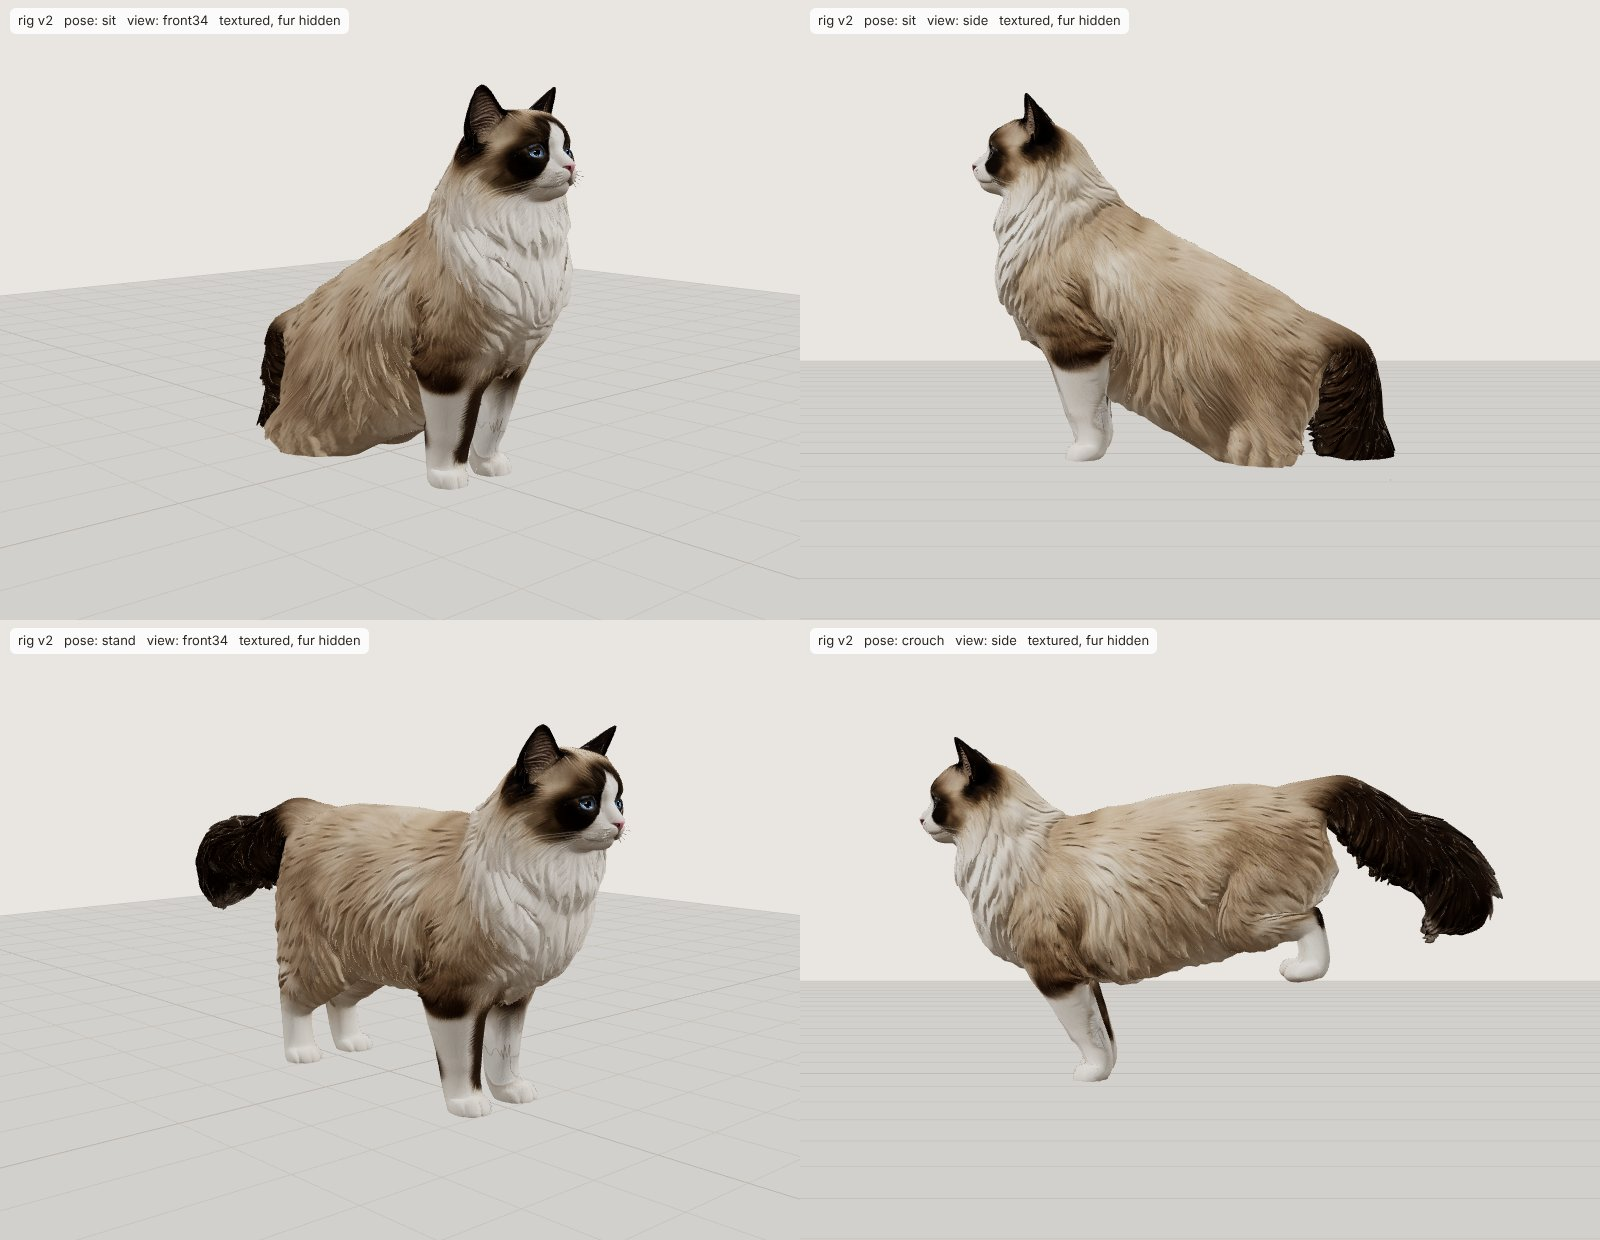
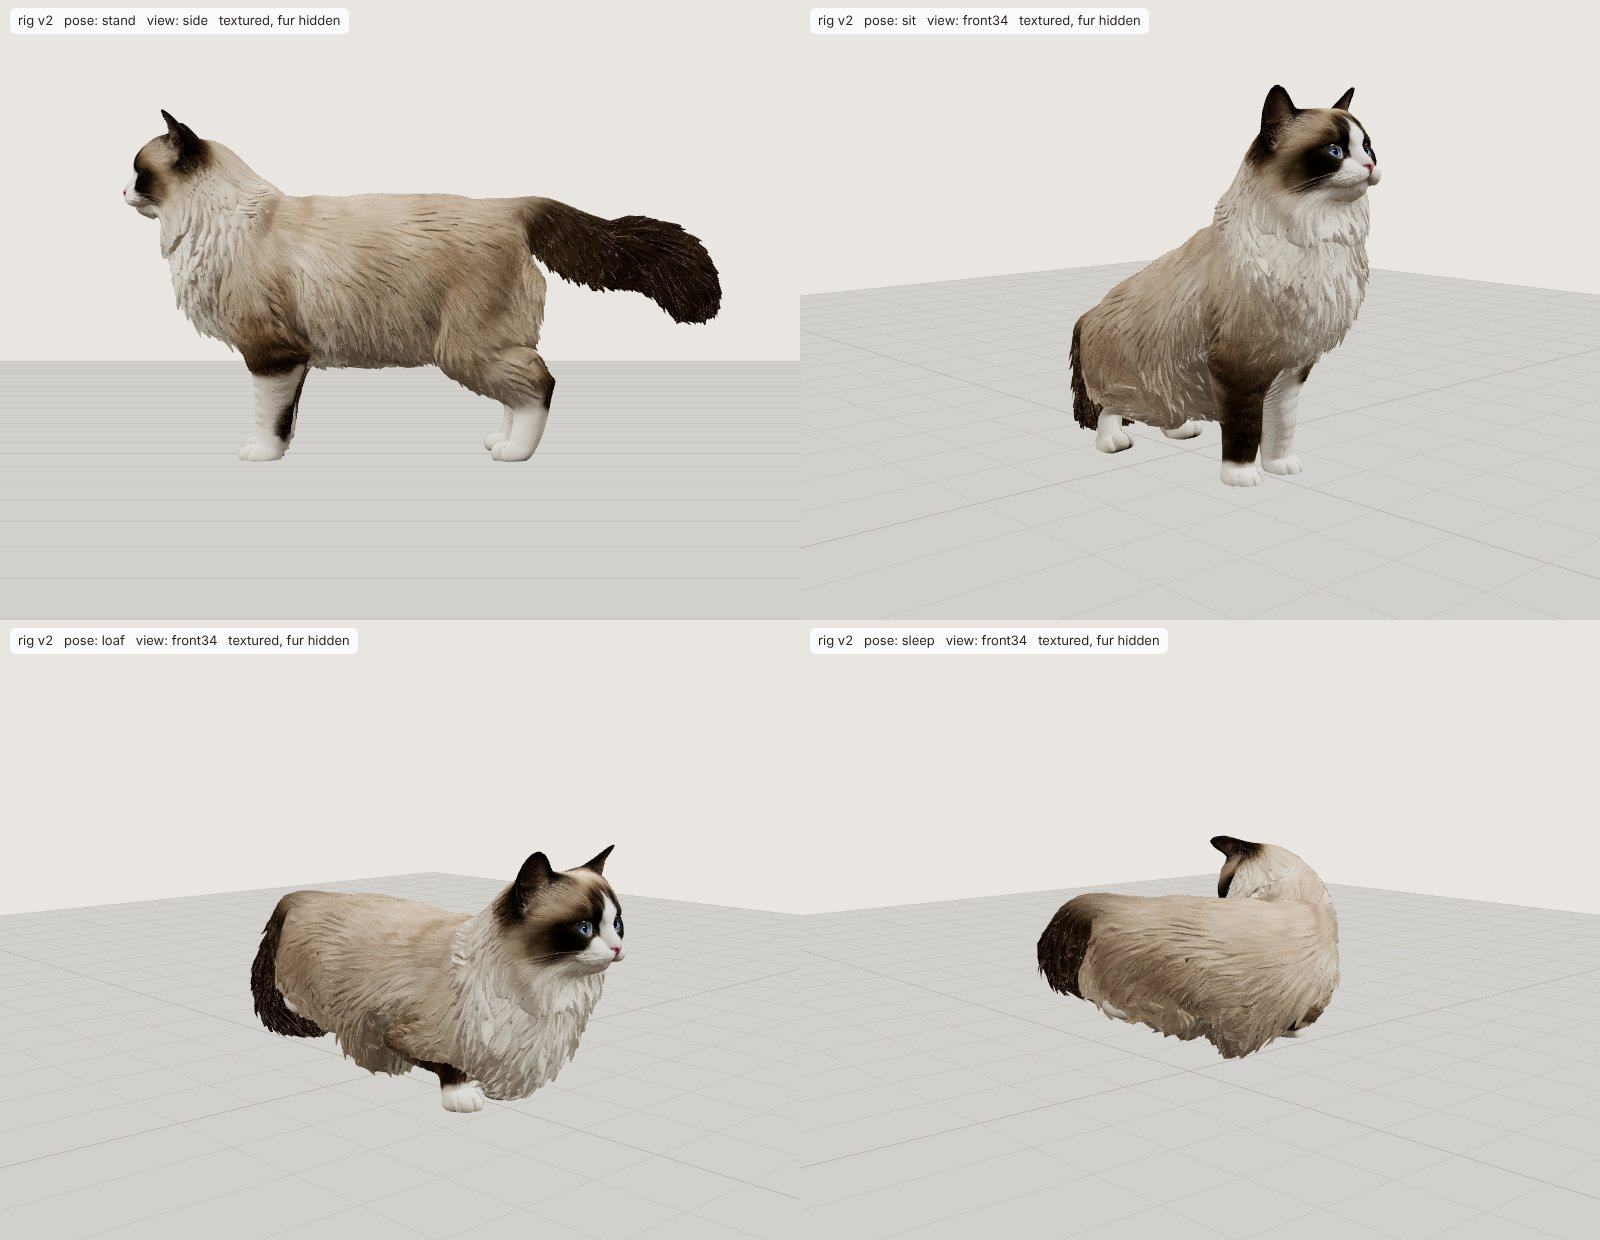
Top-settings long-haired Mochi takes the skeleton: stands, sits, loafs, sleeps; loose tail fur follows the tail
Claude-Session: https://claude.ai/code/session_01URjRU4Zd6JqdoEyWUnXXSA

diff --git a/dist/cat-rig.js b/dist/cat-rig.js
@@ -237,47 +237,48 @@ BONES2.tail5 = ['tail4', V(0.515, -0.38, -0.60)];
 BONES2.tail6 = ['tail5', V(0.505, -0.372, -0.72)];
 BONES2.tail7 = ['tail6', V(0.48, -0.365, -0.82), V(0.43, -0.34, -0.95)];
 
-// The long-haired Mochi candidate (assets/mochi-longhair.glb, see
+// The long-haired Mochi (assets/mochi-longhair-hq.glb, Meshy's top settings; see
 // docs/mochi-longhair/): the same bones as BONES2, measured on that model. It
-// stands straight and symmetric: midline x = 0, ground y = -0.62, facing +z,
+// stands almost square: midline x = 0, ground y = -0.6, facing +z,
 // her left is +x, tail raised. Thick fur: the skin is well inside the surface
 // (back at y .25, bones at .08). Not used by the app yet (mochi-study.html
 // draws it with ?bones).
 const side = (n, parent, x, y, z, end) => ({[n + 'R']: [parent && parent + 'R', V(-x, y, z), end && V(-end[0], end[1], end[2])].filter(v => v !== undefined), [n + 'L']: [parent && parent + 'L', V(x, y, z), end && V(...end)].filter(v => v !== undefined)});
-export const GROUND_Y_LONGHAIR = -0.62;
+export const GROUND_Y_LONGHAIR = -0.602;
 export const BONES_LONGHAIR = {
   hips:  [null,    V(0, 0.08, -0.30)],
   spine: ['hips',  V(0, 0.08, -0.02)],
   chest: ['spine', V(0, 0.08, 0.30)],
-  neck:  ['chest', V(0, 0.16, 0.55)],
-  head:  ['neck',  V(0, 0.27, 0.70), V(0, 0.27, 0.93)],
-  jaw:   ['head',  V(0, 0.21, 0.78), V(0, 0.19, 0.93)],
-  earR:  ['head',  V(-0.11, 0.40, 0.76), V(-0.147, 0.494, 0.80)],
-  earL:  ['head',  V(0.11, 0.40, 0.76), V(0.147, 0.494, 0.80)],
-  scapulaR: ['chest', V(-0.07, 0.20, 0.36)], scapulaL: ['chest', V(0.07, 0.20, 0.36)],
-  ...side('shoulder', 'scapula', 0.10, -0.02, 0.50),
-  ...side('elbow', 'shoulder', 0.09, -0.28, 0.45),
-  ...side('wrist', 'elbow', 0.08, -0.50, 0.50, [0.088, -0.60, 0.59]),
+  neck:  ['chest', V(0, 0.17, 0.55)],
+  head:  ['neck',  V(0, 0.29, 0.70), V(0, 0.29, 0.93)],
+  jaw:   ['head',  V(0, 0.23, 0.78), V(0, 0.21, 0.93)],
+  earR:  ['head',  V(-0.11, 0.41, 0.75), V(-0.152, 0.508, 0.787)],
+  earL:  ['head',  V(0.11, 0.41, 0.75), V(0.156, 0.509, 0.783)],
+  scapulaR: ['chest', V(-0.07, 0.20, 0.34)], scapulaL: ['chest', V(0.07, 0.20, 0.34)],
+  ...side('shoulder', 'scapula', 0.09, -0.02, 0.46),
+  ...side('elbow', 'shoulder', 0.075, -0.28, 0.42),
+  ...side('wrist', 'elbow', 0.078, -0.48, 0.435, [0.087, -0.585, 0.53]),
   thighR: ['hips', V(-0.10, 0.0, -0.30)], thighL: ['hips', V(0.10, 0.0, -0.30)],
   hipR: ['hips', V(-0.10, 0.0, -0.30)], hipL: ['hips', V(0.10, 0.0, -0.30)],
-  ...side('knee', 'hip', 0.11, -0.26, -0.18),
-  ...side('hock', 'knee', 0.09, -0.46, -0.31, [0.105, -0.60, -0.20]),
-  tail0: ['hips',  V(0, 0.14, -0.40)],
-  tail1: ['tail0', V(0, 0.20, -0.50)],
-  tail2: ['tail1', V(0, 0.27, -0.58)],
-  tail3: ['tail2', V(0, 0.34, -0.65)],
-  tail4: ['tail3', V(0, 0.41, -0.70)],
-  tail5: ['tail4', V(0, 0.47, -0.73)],
+  // (She stands mid-step: her right hind leg is a little further back.)
+  kneeR: ['hipR', V(-0.12, -0.26, -0.22)], kneeL: ['hipL', V(0.12, -0.26, -0.20)],
+  hockR: ['kneeR', V(-0.11, -0.45, -0.36), V(-0.15, -0.585, -0.28)], hockL: ['kneeL', V(0.10, -0.45, -0.31), V(0.13, -0.585, -0.20)],
+  tail0: ['hips',  V(0, 0.15, -0.40)],
+  tail1: ['tail0', V(0, 0.21, -0.50)],
+  tail2: ['tail1', V(0, 0.28, -0.58)],
+  tail3: ['tail2', V(0, 0.35, -0.66)],
+  tail4: ['tail3', V(0, 0.42, -0.71)],
+  tail5: ['tail4', V(0, 0.48, -0.74)],
   tail6: ['tail5', V(0, 0.53, -0.76)],
-  tail7: ['tail6', V(0, 0.58, -0.76), V(0, 0.62, -0.74)],
+  tail7: ['tail6', V(0, 0.57, -0.76), V(0, 0.60, -0.75)],
 };
 // Face landmarks, read off the model's texture (blue of the eyes, pink of the nose).
 export const FACE_LONGHAIR = {
-  eyeR: V(-0.064, 0.293, 0.883),
-  eyeL: V(0.062, 0.293, 0.884),
-  eyeRadius: new THREE.Vector2(0.021, 0.016),
-  mouth: V(0, 0.205, 0.925),
-  nose: V(0, 0.24, 0.941),
+  eyeR: V(-0.061, 0.311, 0.874),
+  eyeL: V(0.061, 0.311, 0.874),
+  eyeRadius: new THREE.Vector2(0.024, 0.017),
+  mouth: V(0, 0.225, 0.925),
+  nose: V(0, 0.261, 0.936),
 };
 
 // Where the parts of the model are, for the weights (the first Mochi's own
@@ -289,7 +290,7 @@ export const FACE_LONGHAIR = {
 // full strength (her legs stand closer together than the first Mochi's).
 const T = {tailCut: 0.11, front: -0.05, hind: -0.2, legTopF: -0.2, legTopH: -0.24, jaw: [0.72, 0.17, 0.305, 0.14], earY: 0.47, earZ: 0.78, headZ: 0.25, mid: [.02, .05]};
 const inJaw = p => p.z > T.jaw[0] && p.y > T.jaw[1] && p.y < T.jaw[2] && Math.abs(p.x - MIDLINE_X) < T.jaw[3];
-const T_LONGHAIR = {tailCut: 0.17, front: 0.22, hind: -0.02, legTopF: -0.3, legTopH: -0.3, jaw: [0.8, 0.14, 0.225, 0.09], earY: 0.4, earZ: 0.84, headZ: 0.48, mid: [.008, .015]};
+const T_LONGHAIR = {tailCut: 0.17, front: 0.22, hind: -0.02, legTopF: -0.3, legTopH: -0.3, jaw: [0.8, 0.16, 0.245, 0.09], earY: 0.41, earZ: 0.84, headZ: 0.48, mid: [.008, .015], tailUp: true};
 
 /**
  * Switches every table in this file to another model's measurements, in
@@ -303,8 +304,8 @@ export function useModel(name) {
   for (const k of ['scapulaR', 'scapulaL', 'thighR', 'thighL']) delete BONES[k];
   BONES.shoulderR = ['chest', BONES_LONGHAIR.shoulderR[1]]; BONES.shoulderL = ['chest', BONES_LONGHAIR.shoulderL[1]];
   for (const k of ['eyeR', 'eyeL', 'eyeRadius', 'mouth', 'nose']) FACE[k].copy(FACE_LONGHAIR[k]);
-  Object.assign(LEGS.R, {axis: [-0.085, 0.49]}); Object.assign(LEGS.L, {axis: [0.085, 0.49]});
-  Object.assign(LEGS.HR, {axis: [-0.1, -0.27]}); Object.assign(LEGS.HL, {axis: [0.1, -0.27]});
+  Object.assign(LEGS.R, {axis: [-0.078, 0.45]}); Object.assign(LEGS.L, {axis: [0.078, 0.45]});
+  Object.assign(LEGS.HR, {axis: [-0.125, -0.31]}); Object.assign(LEGS.HL, {axis: [0.115, -0.26]});
   Object.assign(T, T_LONGHAIR);
   GROUND_Y = GROUND_Y_LONGHAIR; MIDLINE_X = 0;
 }
@@ -360,6 +361,10 @@ export function computeWeights2(geometry, {smooth = 300} = {}) {
   const stack = [tip];
   region[tip] = 1;
   while (stack.length) { const v = stack.pop(); for (const u of adj[v]) if (region[u] === 0) { region[u] = 1; stack.push(u); } }
+  // A raised tail's loose flecks of fur (pieces of their own, which the
+  // spread above can't reach) belong to the tail too, or they stay behind
+  // in the air when it moves.
+  if (T.tailUp) for (let i = 0; i < N; i++) if (weld[i] === i && region[i] === 0 && pos.getZ(i) < r1.z && pos.getY(i) > r1.y) region[i] = 1;
   const LEG_REGIONS = {3: LEGS.R, 4: LEGS.L, 5: LEGS.HR, 6: LEGS.HL};
   for (let i = 0; i < N; i++) {
     if (weld[i] !== i || region[i]) continue;
@@ -427,8 +432,10 @@ export function computeWeights2(geometry, {smooth = 300} = {}) {
     }
     let maxU = 0;
     for (let i = 0; i < N; i++) if (region[i] === 1 && isFinite(along[i])) maxU = Math.max(maxU, along[i]);
-    const start = Math.min(...Array.from({length: N}, (_, i) => region[i] === 1 && isFinite(along[i]) ? along[i] : Infinity));
+    let start = Infinity; // (a loop: a model can have more points than a call takes arguments)
+    for (let i = 0; i < N; i++) if (region[i] === 1 && isFinite(along[i])) start = Math.min(start, along[i]);
     for (let i = 0; i < N; i++) if (region[i] === 1 && isFinite(along[i])) along[i] = start + (along[i] - start) * (cum[cum.length - 1] - start) / Math.max(1e-6, maxU - start);
+    for (let i = 0; i < N; i++) if (region[i] === 1 && weld[i] === i && !isFinite(along[i])) along[i] = chainPos(P(i)); // loose pieces: by the nearest point of the chain
   }
   for (let i = 0; i < N; i++) {
     if (weld[i] !== i) continue;

diff --git a/dist/rig-check.js b/dist/rig-check.js
@@ -42,7 +42,7 @@ const DEF = RIG === 2 ? BONES2 : BONES;
 // ?model=longhair: the long-haired candidate (rig 2 only).
 const LONGHAIR = new URLSearchParams(location.search).get('model') === 'longhair';
 const cat = new RealCat(LONGHAIR ? {rig: 2, model: 'longhair'} : {rig: RIG});
-await cat.load(LONGHAIR ? './assets/mochi-longhair.glb' : './assets/mochi-ragdoll.glb');
+await cat.load(LONGHAIR ? './assets/mochi-longhair-hq.glb' : './assets/mochi-ragdoll.glb');
 scene.add(cat.root);
 cat.fur.visible = false;
 const B = cat.bones, skinned = cat.skinned, geo = skinned.geometry;

diff --git a/dist/mochi-study.js b/dist/mochi-study.js
@@ -10,7 +10,7 @@ import {GLTFLoader} from './vendor/GLTFLoader.js';
 import {BONES_LONGHAIR, FACE_LONGHAIR} from './cat-rig.js';
 
 const q = new URLSearchParams(location.search);
-const file = q.get('model') || 'mochi-longhair.glb';
+const file = q.get('model') || 'mochi-longhair-hq.glb';
 const renderer = new THREE.WebGLRenderer({antialias: true, preserveDrawingBuffer: true});
 renderer.setPixelRatio(Math.min(devicePixelRatio, 2));
 renderer.setSize(innerWidth, innerHeight);

diff --git a/docs/mochi-longhair/README.md b/docs/mochi-longhair/README.md
@@ -33,9 +33,16 @@ triangle copy for phones by Meshy's Remesh. 96 credits (170 in all).
   no repaint. Worse: she stands mid-step (hind legs staggered, as the back
   view was slightly turned), so her bone table needs each side measured and
   rest fixes like the first Mochi's (`aim()` in `real-cat.js`).
-- **Not rigged yet.** `BONES_LONGHAIR` is the first candidate's.
-  `tools/mochi-longhair/measure.py <glb>` prints the landmarks to build her
-  table from; `pack.py` makes a web copy.
+- **Rigged (Merlin picked this model).** `BONES_LONGHAIR`, `FACE_LONGHAIR`
+  and the `longhair` numbers in `cat-rig.js` are now hers, and
+  `rig-check.html?rig=2&model=longhair` loads her. Picture:
+  `rigged-poses.jpg`. Two fixes on the way: a model with over about 125,000
+  points broke a `Math.min(...)` call in the weights; loose flecks of tail
+  fur now follow the tail (`T.tailUp`). The first candidate
+  (`mochi-longhair.glb`) is kept for comparison only; its bone table is in
+  git history (commit `1d2b971`).
+- `tools/mochi-longhair/measure.py <glb>` prints the landmarks a bone table
+  is built from; `pack.py` makes a web copy.
 - The 8K original is too big for the repo comfortably (95 MB; GitHub's
   limit is 100): Merlin should download it from Meshy before it expires
   there (task `01a1cd4a-6e89-7137-b41f-0d9decacdf03`).
@@ -67,9 +74,10 @@ Two things her build needed: leg skin goes to the nearest leg (her legs
 stand close together), and a narrower midline limit (`T.mid`).
 
 Known faults, not fixed yet:
-- Sitting is low and sloped: the haunches don't tuck under. `POSES.sit` was
-  tuned for the first Mochi's leg lengths; her legs are shorter under the fur.
-- Crouch kicks a hind leg back.
+- (First candidate: sitting was low, the crouch kicked a leg. On the
+  top-settings model the sit reads as a sit; crouch and walk not looked at yet.)
+- Standing, her hind legs trail a little behind her.
+- Loading works out weights for 140,000 points: slow, to be timed on a phone.
 - The fur shells still use the first Mochi's regions (`furLengths`), so the
   fur is hidden in these pictures.
 - Contact points and petting colliders are the first Mochi's sizes.
